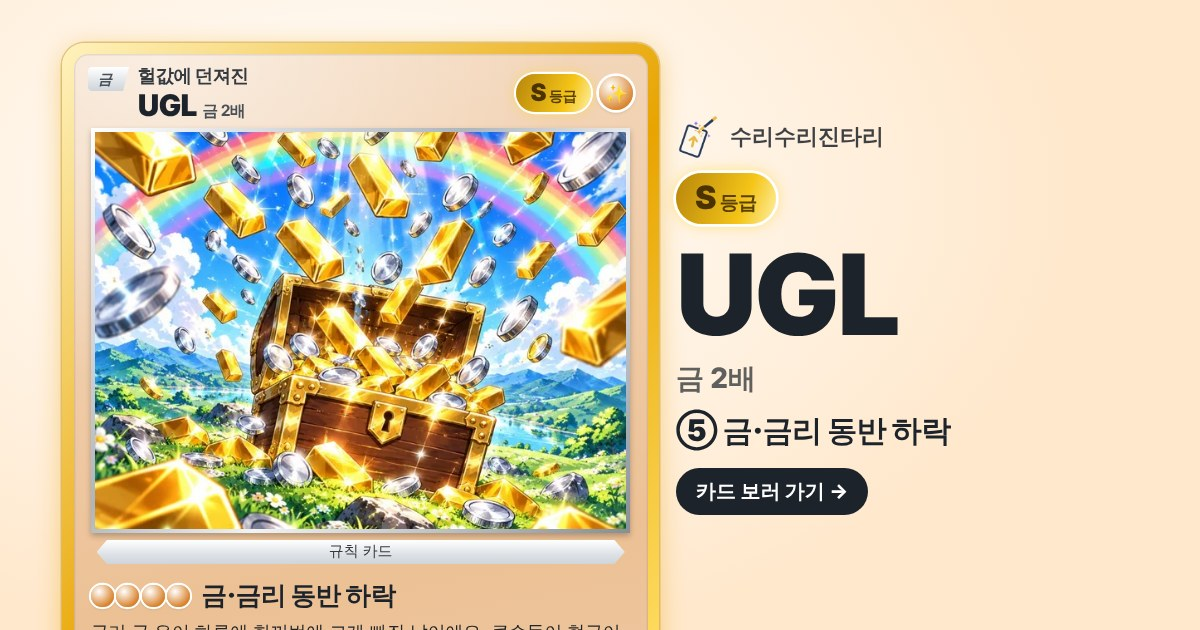
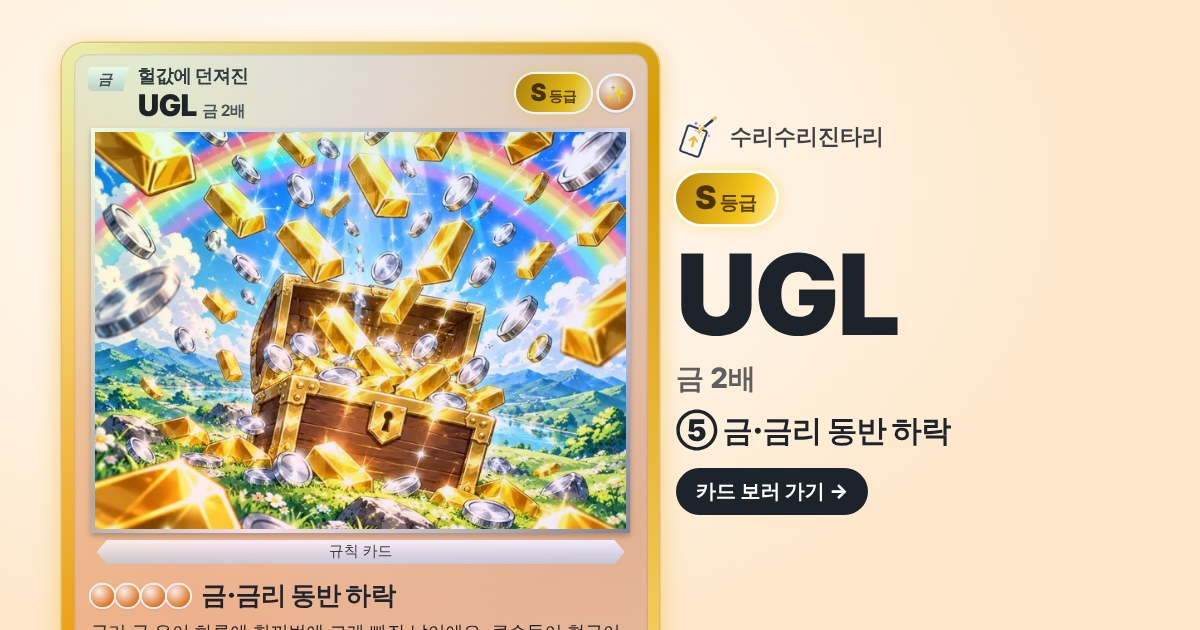
Thumbnails with pearl coating
Claude-Session: https://claude.ai/code/session_01Xnyx7mtSPSqwH8ncGopNjD

diff --git a/c/1-b/index.html b/c/1-b/index.html
@@ -5,7 +5,7 @@
 <meta property="og:title" content="급락 초입 카드 · B등급">
 <meta property="og:description" content="시장이 막 미끄러지기 시작할 때가 가장 싸게 담을 수 있는 순간. 깊이 빠진 뒤가 아니라 '처음' 꺾일 때 받아요. 수리수리진타리에서 지금 이 카드를 확인하세요.">
 <meta property="og:url" content="https://stock.jintar.co.kr/c/1-b/">
-<meta property="og:image" content="https://stock.jintar.co.kr/c/1-b.jpg?v=mv8q327z">
+<meta property="og:image" content="https://stock.jintar.co.kr/c/1-b.jpg?v=mv8qgzkt">
 <meta property="og:image:width" content="1200">
 <meta property="og:image:height" content="630">
 <meta property="og:image:alt" content="급락 초입 카드">
@@ -13,7 +13,7 @@
 <meta name="twitter:card" content="summary_large_image">
 <meta name="twitter:title" content="급락 초입 카드 · B등급">
 <meta name="twitter:description" content="시장이 막 미끄러지기 시작할 때가 가장 싸게 담을 수 있는 순간. 깊이 빠진 뒤가 아니라 '처음' 꺾일 때 받아요. 수리수리진타리에서 지금 이 카드를 확인하세요.">
-<meta name="twitter:image" content="https://stock.jintar.co.kr/c/1-b.jpg?v=mv8q327z">
+<meta name="twitter:image" content="https://stock.jintar.co.kr/c/1-b.jpg?v=mv8qgzkt">
 <link rel="icon" href="https://yoonjintar2-ctrl.github.io/bb/hunter/a/icon180.png?v=2">
 <script>var h=(location.hash||'').replace(/^#/,'').replace(/[^A-Za-z0-9]/g,'');location.replace('/#c1'+(h?'-'+h:''));</script>
 </head><body style="font-family:sans-serif;color:#6b7580;text-align:center;padding-top:40vh"><a href="/#c1">카드 보러 가기</a></body></html>

diff --git a/c/1/index.html b/c/1/index.html
@@ -5,7 +5,7 @@
 <meta property="og:title" content="급락 초입 카드 · A등급">
 <meta property="og:description" content="시장이 막 미끄러지기 시작할 때가 가장 싸게 담을 수 있는 순간. 깊이 빠진 뒤가 아니라 '처음' 꺾일 때 받아요. 수리수리진타리에서 지금 이 카드를 확인하세요.">
 <meta property="og:url" content="https://stock.jintar.co.kr/c/1/">
-<meta property="og:image" content="https://stock.jintar.co.kr/c/1.jpg?v=mv8q327t">
+<meta property="og:image" content="https://stock.jintar.co.kr/c/1.jpg?v=mv8qgzkn">
 <meta property="og:image:width" content="1200">
 <meta property="og:image:height" content="630">
 <meta property="og:image:alt" content="급락 초입 카드">
@@ -13,7 +13,7 @@
 <meta name="twitter:card" content="summary_large_image">
 <meta name="twitter:title" content="급락 초입 카드 · A등급">
 <meta name="twitter:description" content="시장이 막 미끄러지기 시작할 때가 가장 싸게 담을 수 있는 순간. 깊이 빠진 뒤가 아니라 '처음' 꺾일 때 받아요. 수리수리진타리에서 지금 이 카드를 확인하세요.">
-<meta name="twitter:image" content="https://stock.jintar.co.kr/c/1.jpg?v=mv8q327t">
+<meta name="twitter:image" content="https://stock.jintar.co.kr/c/1.jpg?v=mv8qgzkn">
 <link rel="icon" href="https://yoonjintar2-ctrl.github.io/bb/hunter/a/icon180.png?v=2">
 <script>var h=(location.hash||'').replace(/^#/,'').replace(/[^A-Za-z0-9]/g,'');location.replace('/#c1'+(h?'-'+h:''));</script>
 </head><body style="font-family:sans-serif;color:#6b7580;text-align:center;padding-top:40vh"><a href="/#c1">카드 보러 가기</a></body></html>

diff --git a/c/8-bp/index.html b/c/8-bp/index.html
@@ -5,7 +5,7 @@
 <meta property="og:title" content="급락일 과하게 빠진 종목 카드 · B+등급">
 <meta property="og:description" content="협곡 바닥까지 과하게 떨어진 종목은 스프링처럼 튀어 올라요. 늦을수록 손해. 수리수리진타리에서 지금 이 카드를 확인하세요.">
 <meta property="og:url" content="https://stock.jintar.co.kr/c/8-bp/">
-<meta property="og:image" content="https://stock.jintar.co.kr/c/8-bp.jpg?v=mv8q3280">
+<meta property="og:image" content="https://stock.jintar.co.kr/c/8-bp.jpg?v=mv8qgzku">
 <meta property="og:image:width" content="1200">
 <meta property="og:image:height" content="630">
 <meta property="og:image:alt" content="급락일 과하게 빠진 종목 카드">
@@ -13,7 +13,7 @@
 <meta name="twitter:card" content="summary_large_image">
 <meta name="twitter:title" content="급락일 과하게 빠진 종목 카드 · B+등급">
 <meta name="twitter:description" content="협곡 바닥까지 과하게 떨어진 종목은 스프링처럼 튀어 올라요. 늦을수록 손해. 수리수리진타리에서 지금 이 카드를 확인하세요.">
-<meta name="twitter:image" content="https://stock.jintar.co.kr/c/8-bp.jpg?v=mv8q3280">
+<meta name="twitter:image" content="https://stock.jintar.co.kr/c/8-bp.jpg?v=mv8qgzku">
 <link rel="icon" href="https://yoonjintar2-ctrl.github.io/bb/hunter/a/icon180.png?v=2">
 <script>var h=(location.hash||'').replace(/^#/,'').replace(/[^A-Za-z0-9]/g,'');location.replace('/#c8'+(h?'-'+h:''));</script>
 </head><body style="font-family:sans-serif;color:#6b7580;text-align:center;padding-top:40vh"><a href="/#c8">카드 보러 가기</a></body></html>

diff --git a/c/8/index.html b/c/8/index.html
@@ -5,7 +5,7 @@
 <meta property="og:title" content="급락일 과하게 빠진 종목 카드 · A등급">
 <meta property="og:description" content="협곡 바닥까지 과하게 떨어진 종목은 스프링처럼 튀어 올라요. 늦을수록 손해. 수리수리진타리에서 지금 이 카드를 확인하세요.">
 <meta property="og:url" content="https://stock.jintar.co.kr/c/8/">
-<meta property="og:image" content="https://stock.jintar.co.kr/c/8.jpg?v=mv8q327w">
+<meta property="og:image" content="https://stock.jintar.co.kr/c/8.jpg?v=mv8qgzkq">
 <meta property="og:image:width" content="1200">
 <meta property="og:image:height" content="630">
 <meta property="og:image:alt" content="급락일 과하게 빠진 종목 카드">
@@ -13,7 +13,7 @@
 <meta name="twitter:card" content="summary_large_image">
 <meta name="twitter:title" content="급락일 과하게 빠진 종목 카드 · A등급">
 <meta name="twitter:description" content="협곡 바닥까지 과하게 떨어진 종목은 스프링처럼 튀어 올라요. 늦을수록 손해. 수리수리진타리에서 지금 이 카드를 확인하세요.">
-<meta name="twitter:image" content="https://stock.jintar.co.kr/c/8.jpg?v=mv8q327w">
+<meta name="twitter:image" content="https://stock.jintar.co.kr/c/8.jpg?v=mv8qgzkq">
 <link rel="icon" href="https://yoonjintar2-ctrl.github.io/bb/hunter/a/icon180.png?v=2">
 <script>var h=(location.hash||'').replace(/^#/,'').replace(/[^A-Za-z0-9]/g,'');location.replace('/#c8'+(h?'-'+h:''));</script>
 </head><body style="font-family:sans-serif;color:#6b7580;text-align:center;padding-top:40vh"><a href="/#c8">카드 보러 가기</a></body></html>

diff --git a/c/2-b/index.html b/c/2-b/index.html
@@ -5,7 +5,7 @@
 <meta property="og:title" content="나스닥 박스 하단 카드 · B등급">
 <meta property="og:description" content="오른 뒤 쉬어 가는 상자 안에서, 바닥을 두 번 확인하고 튀어 오를 때를 노려요. 수리수리진타리에서 지금 이 카드를 확인하세요.">
 <meta property="og:url" content="https://stock.jintar.co.kr/c/2-b/">
-<meta property="og:image" content="https://stock.jintar.co.kr/c/2-b.jpg?v=mv8q327z">
+<meta property="og:image" content="https://stock.jintar.co.kr/c/2-b.jpg?v=mv8qgzkt">
 <meta property="og:image:width" content="1200">
 <meta property="og:image:height" content="630">
 <meta property="og:image:alt" content="나스닥 박스 하단 카드">
@@ -13,7 +13,7 @@
 <meta name="twitter:card" content="summary_large_image">
 <meta name="twitter:title" content="나스닥 박스 하단 카드 · B등급">
 <meta name="twitter:description" content="오른 뒤 쉬어 가는 상자 안에서, 바닥을 두 번 확인하고 튀어 오를 때를 노려요. 수리수리진타리에서 지금 이 카드를 확인하세요.">
-<meta name="twitter:image" content="https://stock.jintar.co.kr/c/2-b.jpg?v=mv8q327z">
+<meta name="twitter:image" content="https://stock.jintar.co.kr/c/2-b.jpg?v=mv8qgzkt">
 <link rel="icon" href="https://yoonjintar2-ctrl.github.io/bb/hunter/a/icon180.png?v=2">
 <script>var h=(location.hash||'').replace(/^#/,'').replace(/[^A-Za-z0-9]/g,'');location.replace('/#c2'+(h?'-'+h:''));</script>
 </head><body style="font-family:sans-serif;color:#6b7580;text-align:center;padding-top:40vh"><a href="/#c2">카드 보러 가기</a></body></html>

diff --git a/c/2/index.html b/c/2/index.html
@@ -5,7 +5,7 @@
 <meta property="og:title" content="나스닥 박스 하단 카드 · B+등급">
 <meta property="og:description" content="오른 뒤 쉬어 가는 상자 안에서, 바닥을 두 번 확인하고 튀어 오를 때를 노려요. 수리수리진타리에서 지금 이 카드를 확인하세요.">
 <meta property="og:url" content="https://stock.jintar.co.kr/c/2/">
-<meta property="og:image" content="https://stock.jintar.co.kr/c/2.jpg?v=mv8q327u">
+<meta property="og:image" content="https://stock.jintar.co.kr/c/2.jpg?v=mv8qgzko">
 <meta property="og:image:width" content="1200">
 <meta property="og:image:height" content="630">
 <meta property="og:image:alt" content="나스닥 박스 하단 카드">
@@ -13,7 +13,7 @@
 <meta name="twitter:card" content="summary_large_image">
 <meta name="twitter:title" content="나스닥 박스 하단 카드 · B+등급">
 <meta name="twitter:description" content="오른 뒤 쉬어 가는 상자 안에서, 바닥을 두 번 확인하고 튀어 오를 때를 노려요. 수리수리진타리에서 지금 이 카드를 확인하세요.">
-<meta name="twitter:image" content="https://stock.jintar.co.kr/c/2.jpg?v=mv8q327u">
+<meta name="twitter:image" content="https://stock.jintar.co.kr/c/2.jpg?v=mv8qgzko">
 <link rel="icon" href="https://yoonjintar2-ctrl.github.io/bb/hunter/a/icon180.png?v=2">
 <script>var h=(location.hash||'').replace(/^#/,'').replace(/[^A-Za-z0-9]/g,'');location.replace('/#c2'+(h?'-'+h:''));</script>
 </head><body style="font-family:sans-serif;color:#6b7580;text-align:center;padding-top:40vh"><a href="/#c2">카드 보러 가기</a></body></html>

diff --git a/c/13s/index.html b/c/13s/index.html
@@ -5,7 +5,7 @@
 <meta property="og:title" content="⛔ 매수 금지 · 반도체 과열 뒤 꺾임 카드 · C-등급">
 <meta property="og:description" content="들뜬 군중이 떠난 자리엔 다시 들어가지 않아요. 수리수리진타리에서 지금 이 카드를 확인하세요.">
 <meta property="og:url" content="https://stock.jintar.co.kr/c/13s/">
-<meta property="og:image" content="https://stock.jintar.co.kr/c/13s.jpg?v=mv8q327y">
+<meta property="og:image" content="https://stock.jintar.co.kr/c/13s.jpg?v=mv8qgzks">
 <meta property="og:image:width" content="1200">
 <meta property="og:image:height" content="630">
 <meta property="og:image:alt" content="반도체 과열 뒤 꺾임 카드">
@@ -13,7 +13,7 @@
 <meta name="twitter:card" content="summary_large_image">
 <meta name="twitter:title" content="⛔ 매수 금지 · 반도체 과열 뒤 꺾임 카드 · C-등급">
 <meta name="twitter:description" content="들뜬 군중이 떠난 자리엔 다시 들어가지 않아요. 수리수리진타리에서 지금 이 카드를 확인하세요.">
-<meta name="twitter:image" content="https://stock.jintar.co.kr/c/13s.jpg?v=mv8q327y">
+<meta name="twitter:image" content="https://stock.jintar.co.kr/c/13s.jpg?v=mv8qgzks">
 <link rel="icon" href="https://yoonjintar2-ctrl.github.io/bb/hunter/a/icon180.png?v=2">
 <script>var h=(location.hash||'').replace(/^#/,'').replace(/[^A-Za-z0-9]/g,'');location.replace('/#c13s'+(h?'-'+h:''));</script>
 </head><body style="font-family:sans-serif;color:#6b7580;text-align:center;padding-top:40vh"><a href="/#c13s">카드 보러 가기</a></body></html>

diff --git a/c/7/index.html b/c/7/index.html
@@ -5,7 +5,7 @@
 <meta property="og:title" content="V자 반등 후 횡보 카드 · C+등급">
 <meta property="og:description" content="빠르게 꺾였다 돌아온 V자를 돋보기로 지켜보는 중. 아직 연습 카드예요. 수리수리진타리에서 지금 이 카드를 확인하세요.">
 <meta property="og:url" content="https://stock.jintar.co.kr/c/7/">
-<meta property="og:image" content="https://stock.jintar.co.kr/c/7.jpg?v=mv8q327w">
+<meta property="og:image" content="https://stock.jintar.co.kr/c/7.jpg?v=mv8qgzkq">
 <meta property="og:image:width" content="1200">
 <meta property="og:image:height" content="630">
 <meta property="og:image:alt" content="V자 반등 후 횡보 카드">
@@ -13,7 +13,7 @@
 <meta name="twitter:card" content="summary_large_image">
 <meta name="twitter:title" content="V자 반등 후 횡보 카드 · C+등급">
 <meta name="twitter:description" content="빠르게 꺾였다 돌아온 V자를 돋보기로 지켜보는 중. 아직 연습 카드예요. 수리수리진타리에서 지금 이 카드를 확인하세요.">
-<meta name="twitter:image" content="https://stock.jintar.co.kr/c/7.jpg?v=mv8q327w">
+<meta name="twitter:image" content="https://stock.jintar.co.kr/c/7.jpg?v=mv8qgzkq">
 <link rel="icon" href="https://yoonjintar2-ctrl.github.io/bb/hunter/a/icon180.png?v=2">
 <script>var h=(location.hash||'').replace(/^#/,'').replace(/[^A-Za-z0-9]/g,'');location.replace('/#c7'+(h?'-'+h:''));</script>
 </head><body style="font-family:sans-serif;color:#6b7580;text-align:center;padding-top:40vh"><a href="/#c7">카드 보러 가기</a></body></html>

diff --git a/c/5-a/index.html b/c/5-a/index.html
@@ -5,7 +5,7 @@
 <meta property="og:title" content="금·금리 동반 하락 카드 · A등급">
 <meta property="og:description" content="현금이 급해 금까지 내다 판 날, 쏟아진 금화를 상자에 담아요. 수리수리진타리에서 지금 이 카드를 확인하세요.">
 <meta property="og:url" content="https://stock.jintar.co.kr/c/5-a/">
-<meta property="og:image" content="https://stock.jintar.co.kr/c/5-a.jpg?v=mv8q3280">
+<meta property="og:image" content="https://stock.jintar.co.kr/c/5-a.jpg?v=mv8qgzku">
 <meta property="og:image:width" content="1200">
 <meta property="og:image:height" content="630">
 <meta property="og:image:alt" content="금·금리 동반 하락 카드">
@@ -13,7 +13,7 @@
 <meta name="twitter:card" content="summary_large_image">
 <meta name="twitter:title" content="금·금리 동반 하락 카드 · A등급">
 <meta name="twitter:description" content="현금이 급해 금까지 내다 판 날, 쏟아진 금화를 상자에 담아요. 수리수리진타리에서 지금 이 카드를 확인하세요.">
-<meta name="twitter:image" content="https://stock.jintar.co.kr/c/5-a.jpg?v=mv8q3280">
+<meta name="twitter:image" content="https://stock.jintar.co.kr/c/5-a.jpg?v=mv8qgzku">
 <link rel="icon" href="https://yoonjintar2-ctrl.github.io/bb/hunter/a/icon180.png?v=2">
 <script>var h=(location.hash||'').replace(/^#/,'').replace(/[^A-Za-z0-9]/g,'');location.replace('/#c5'+(h?'-'+h:''));</script>
 </head><body style="font-family:sans-serif;color:#6b7580;text-align:center;padding-top:40vh"><a href="/#c5">카드 보러 가기</a></body></html>

diff --git a/c/4/index.html b/c/4/index.html
@@ -5,7 +5,7 @@
 <meta property="og:title" content="실적주 공포 여론 카드 · A등급">
 <meta property="og:description" content="모두가 겁에 질려 던질 때, 실적이 멀쩡한 보석만 조용히 줍습니다. 수리수리진타리에서 지금 이 카드를 확인하세요.">
 <meta property="og:url" content="https://stock.jintar.co.kr/c/4/">
-<meta property="og:image" content="https://stock.jintar.co.kr/c/4.jpg?v=mv8q327v">
+<meta property="og:image" content="https://stock.jintar.co.kr/c/4.jpg?v=mv8qgzkp">
 <meta property="og:image:width" content="1200">
 <meta property="og:image:height" content="630">
 <meta property="og:image:alt" content="실적주 공포 여론 카드">
@@ -13,7 +13,7 @@
 <meta name="twitter:card" content="summary_large_image">
 <meta name="twitter:title" content="실적주 공포 여론 카드 · A등급">
 <meta name="twitter:description" content="모두가 겁에 질려 던질 때, 실적이 멀쩡한 보석만 조용히 줍습니다. 수리수리진타리에서 지금 이 카드를 확인하세요.">
-<meta name="twitter:image" content="https://stock.jintar.co.kr/c/4.jpg?v=mv8q327v">
+<meta name="twitter:image" content="https://stock.jintar.co.kr/c/4.jpg?v=mv8qgzkp">
 <link rel="icon" href="https://yoonjintar2-ctrl.github.io/bb/hunter/a/icon180.png?v=2">
 <script>var h=(location.hash||'').replace(/^#/,'').replace(/[^A-Za-z0-9]/g,'');location.replace('/#c4'+(h?'-'+h:''));</script>
 </head><body style="font-family:sans-serif;color:#6b7580;text-align:center;padding-top:40vh"><a href="/#c4">카드 보러 가기</a></body></html>

diff --git a/c/6-b/index.html b/c/6-b/index.html
@@ -5,7 +5,7 @@
 <meta property="og:title" content="반도체만 급락 카드 · B등급">
 <meta property="og:description" content="시장은 멀쩡한데 반도체만 넘어졌다면, 일으켜 세우는 쪽에 걸어요. 수리수리진타리에서 지금 이 카드를 확인하세요.">
 <meta property="og:url" content="https://stock.jintar.co.kr/c/6-b/">
-<meta property="og:image" content="https://stock.jintar.co.kr/c/6-b.jpg?v=mv8q3280">
+<meta property="og:image" content="https://stock.jintar.co.kr/c/6-b.jpg?v=mv8qgzku">
 <meta property="og:image:width" content="1200">
 <meta property="og:image:height" content="630">
 <meta property="og:image:alt" content="반도체만 급락 카드">
@@ -13,7 +13,7 @@
 <meta name="twitter:card" content="summary_large_image">
 <meta name="twitter:title" content="반도체만 급락 카드 · B등급">
 <meta name="twitter:description" content="시장은 멀쩡한데 반도체만 넘어졌다면, 일으켜 세우는 쪽에 걸어요. 수리수리진타리에서 지금 이 카드를 확인하세요.">
-<meta name="twitter:image" content="https://stock.jintar.co.kr/c/6-b.jpg?v=mv8q3280">
+<meta name="twitter:image" content="https://stock.jintar.co.kr/c/6-b.jpg?v=mv8qgzku">
 <link rel="icon" href="https://yoonjintar2-ctrl.github.io/bb/hunter/a/icon180.png?v=2">
 <script>var h=(location.hash||'').replace(/^#/,'').replace(/[^A-Za-z0-9]/g,'');location.replace('/#c6'+(h?'-'+h:''));</script>
 </head><body style="font-family:sans-serif;color:#6b7580;text-align:center;padding-top:40vh"><a href="/#c6">카드 보러 가기</a></body></html>

diff --git a/c/5/index.html b/c/5/index.html
@@ -5,7 +5,7 @@
 <meta property="og:title" content="금·금리 동반 하락 카드 · S등급">
 <meta property="og:description" content="현금이 급해 금까지 내다 판 날, 쏟아진 금화를 상자에 담아요. 수리수리진타리에서 지금 이 카드를 확인하세요.">
 <meta property="og:url" content="https://stock.jintar.co.kr/c/5/">
-<meta property="og:image" content="https://stock.jintar.co.kr/c/5.jpg?v=mv8q327v">
+<meta property="og:image" content="https://stock.jintar.co.kr/c/5.jpg?v=mv8qgzkp">
 <meta property="og:image:width" content="1200">
 <meta property="og:image:height" content="630">
 <meta property="og:image:alt" content="금·금리 동반 하락 카드">
@@ -13,7 +13,7 @@
 <meta name="twitter:card" content="summary_large_image">
 <meta name="twitter:title" content="금·금리 동반 하락 카드 · S등급">
 <meta name="twitter:description" content="현금이 급해 금까지 내다 판 날, 쏟아진 금화를 상자에 담아요. 수리수리진타리에서 지금 이 카드를 확인하세요.">
-<meta name="twitter:image" content="https://stock.jintar.co.kr/c/5.jpg?v=mv8q327v">
+<meta name="twitter:image" content="https://stock.jintar.co.kr/c/5.jpg?v=mv8qgzkp">
 <link rel="icon" href="https://yoonjintar2-ctrl.github.io/bb/hunter/a/icon180.png?v=2">
 <script>var h=(location.hash||'').replace(/^#/,'').replace(/[^A-Za-z0-9]/g,'');location.replace('/#c5'+(h?'-'+h:''));</script>
 </head><body style="font-family:sans-serif;color:#6b7580;text-align:center;padding-top:40vh"><a href="/#c5">카드 보러 가기</a></body></html>
